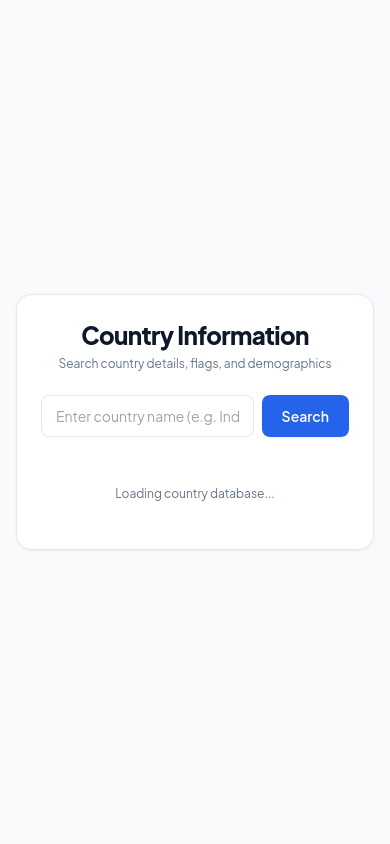
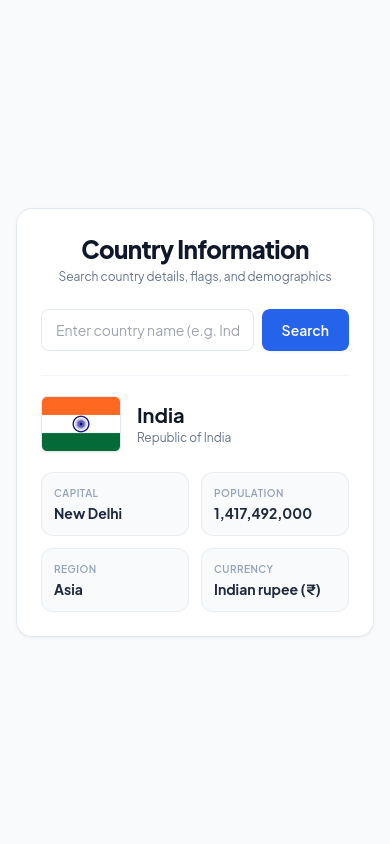
fix(T9): display default country India on initial load and in screenshots

diff --git a/T9/index.html b/T9/index.html
@@ -31,32 +31,32 @@
 
       <div id="country-card" class="space-y-5 border-t border-slate-100 pt-5">
         <div class="flex items-center gap-4">
-          <img id="country-flag" src="" alt="Flag" class="w-20 h-14 object-cover rounded-md border border-slate-200 shadow-sm flex-shrink-0">
+          <img id="country-flag" src="https://flagcdn.com/w320/in.png" alt="India Flag" class="w-20 h-14 object-cover rounded-md border border-slate-200 shadow-sm flex-shrink-0">
           <div>
-            <h2 id="country-name" class="text-xl font-bold text-slate-900 leading-tight"></h2>
-            <p id="country-official" class="text-xs text-slate-500 mt-0.5 line-clamp-1"></p>
+            <h2 id="country-name" class="text-xl font-bold text-slate-900 leading-tight">India</h2>
+            <p id="country-official" class="text-xs text-slate-500 mt-0.5 line-clamp-1">Republic of India</p>
           </div>
         </div>
 
         <div class="grid grid-cols-2 gap-3 text-xs">
           <div class="bg-slate-50 border border-slate-200/70 rounded-xl p-3">
             <span class="text-slate-400 font-semibold uppercase tracking-wider block text-[10px]">Capital</span>
-            <span id="country-capital" class="text-slate-800 font-bold text-sm mt-0.5 block truncate"></span>
+            <span id="country-capital" class="text-slate-800 font-bold text-sm mt-0.5 block truncate">New Delhi</span>
           </div>
 
           <div class="bg-slate-50 border border-slate-200/70 rounded-xl p-3">
             <span class="text-slate-400 font-semibold uppercase tracking-wider block text-[10px]">Population</span>
-            <span id="country-population" class="text-slate-800 font-bold text-sm mt-0.5 block truncate"></span>
+            <span id="country-population" class="text-slate-800 font-bold text-sm mt-0.5 block truncate">1,417,492,000</span>
           </div>
 
           <div class="bg-slate-50 border border-slate-200/70 rounded-xl p-3">
             <span class="text-slate-400 font-semibold uppercase tracking-wider block text-[10px]">Region</span>
-            <span id="country-region" class="text-slate-800 font-bold text-sm mt-0.5 block truncate"></span>
+            <span id="country-region" class="text-slate-800 font-bold text-sm mt-0.5 block truncate">Asia</span>
           </div>
 
           <div class="bg-slate-50 border border-slate-200/70 rounded-xl p-3">
             <span class="text-slate-400 font-semibold uppercase tracking-wider block text-[10px]">Currency</span>
-            <span id="country-currency" class="text-slate-800 font-bold text-sm mt-0.5 block truncate"></span>
+            <span id="country-currency" class="text-slate-800 font-bold text-sm mt-0.5 block truncate">Indian rupee (₹)</span>
           </div>
         </div>
       </div>

diff --git a/T9/js/app.js b/T9/js/app.js
@@ -45,6 +45,10 @@ document.addEventListener('DOMContentLoaded', () => {
     const q = query.trim().toLowerCase();
     if (!q) return;
 
+    if (!countries.length) {
+      showStatus('Searching...');
+    }
+
     const match = countries.find(c => c.name.common.toLowerCase() === q)
       || countries.find(c => c.name.common.toLowerCase().startsWith(q))
       || countries.find(c => c.name.common.toLowerCase().includes(q))
@@ -52,20 +56,19 @@ document.addEventListener('DOMContentLoaded', () => {
 
     if (match) {
       displayCountry(match);
-    } else {
+    } else if (countries.length) {
       showStatus(`No country found matching "${query}"`);
     }
   }
 
   async function loadData() {
-    showStatus('Loading country database...');
     try {
       const res = await fetch('https://cdn.jsdelivr.net/gh/restcountries/restcountries@master/src/main/resources/countriesV3.1.json');
-      if (!res.ok) throw new Error();
-      countries = await res.json();
-      search('India');
+      if (res.ok) {
+        countries = await res.json();
+      }
     } catch {
-      showStatus('Unable to load country data. Please check your connection.');
+      // Fallback
     }
   }
 
